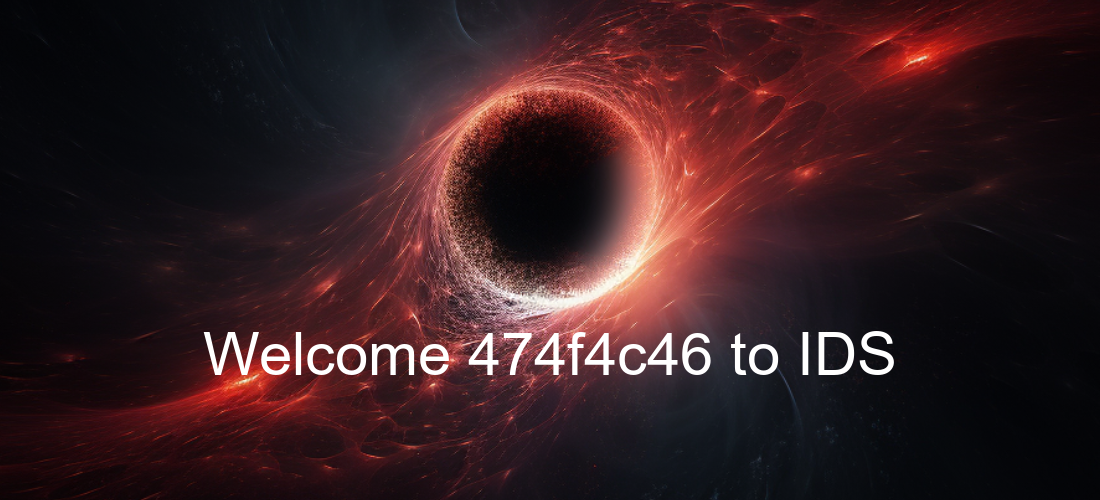
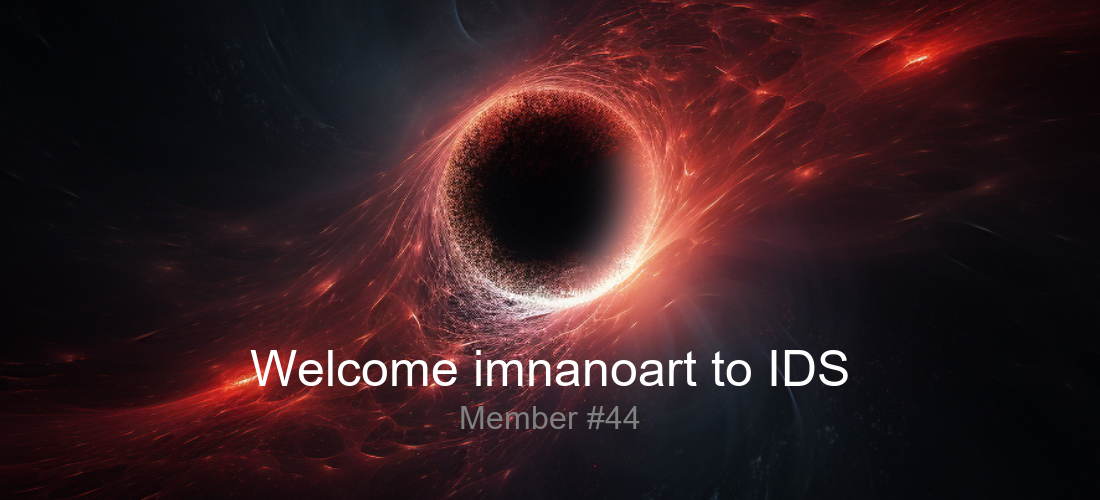
modify code

Changed region(s): [[0.1855, 0.66, 0.8345, 0.78], [0.4018, 0.81, 0.5873, 0.87]]

diff --git a/bot.py b/bot.py
@@ -262,14 +262,19 @@ async def say(ctx, *args):
 @client.command(name="welcome", help="Welcome new member")
 async def welcome(ctx):
     avatar = ctx.author.avatar
+    count = ctx.guild.member_count
     username = ctx.author.name
     W , H = (1100, 500)
     text = f"Welcome {username} to IDS"
+    member_text = f"Member #{count}"
     img =Image.open("Asset/ids_bg.png")
     draw = ImageDraw.Draw(img)
-    font = ImageFont.truetype("arial.ttf", 60)
+    font = ImageFont.truetype("arial.ttf", 50)
+    count_font = ImageFont.truetype("arial.ttf", 32)
     text_size =draw.textlength(text, font=font)
-    draw.text(((W-text_size)/ 2, 320), text, fill=(255, 255, 255, 255), font=font, aligh="center")
+    count_size =draw.textlength(member_text, font=count_font)
+    draw.text(((W-text_size)/ 2, 340), text, fill=(255, 255, 255, 255), font=font, aligh="center")
+    draw.text(((W-count_size)/ 2, 400), member_text, fill="grey", font=count_font, aligh="center")
     img.save("text.png")
 
     await ctx.send(file= discord.File("text.png"))
